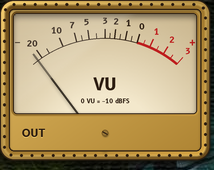
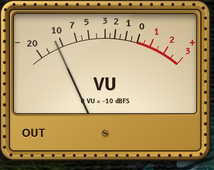
🤖 Add a Now Playing screenshot and retake the VU meter ones with audio

diff --git a/README.rst b/README.rst
@@ -51,6 +51,9 @@ config, all in the ``DesktopDashboard`` group.
     installed. The player is set by ``MusicPlayer`` in the skin's variables
     (``CAD`` for MusicBee).
 
+    .. image:: docs/images/now-playing.png
+       :alt: The Now Playing panel
+
 **VU Meter** (``VUMeter``)
     A 210 x 160 px analog VU meter audio visualizer, sized to sit beside the
     Classic Clock and illustro skins. Reacts to system audio via Rainmeter's
